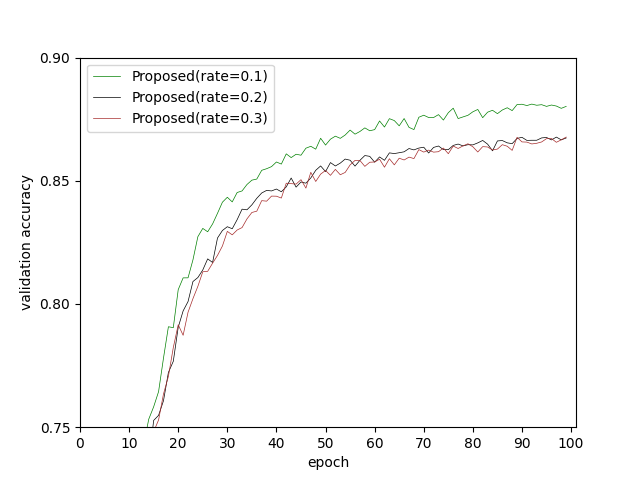
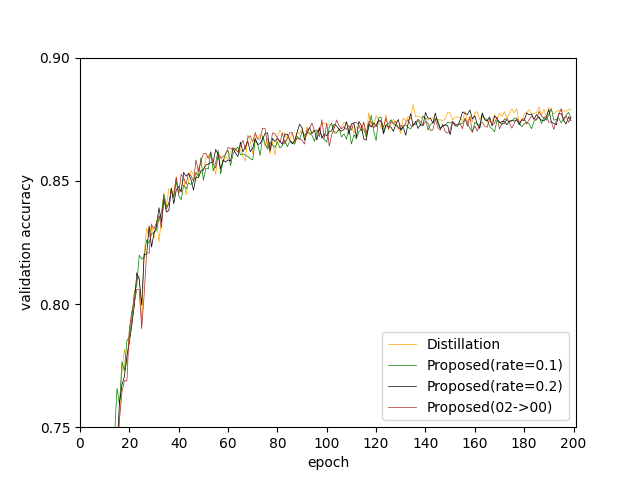
cam-distillation

diff --git a/result.py b/result.py
@@ -9,7 +9,7 @@ def main():
     st_path = './history/resnet/st/'
     cam01_path = './history/resnet/cam/01_'
     cam02_path = './history/resnet/cam/02_'
-    cam05_path = './history/resnet/cam/05_'
+    cam000_path = './history/resnet/cam/000_'
     
     # loading history
     student_acc = load_hist(student_path, 1)
@@ -17,7 +17,7 @@ def main():
     st_acc = load_hist(st_path, 1)
     cam01_acc = load_hist(cam01_path, 1)
     cam02_acc = load_hist(cam02_path, 1)
-    cam05_acc = load_hist(cam05_path, 1)
+    cam000_acc = load_hist(cam000_path, 1)
     
     # print test accuracy
     student_avg = load_avg_test(student_path, 1)
@@ -30,15 +30,15 @@ def main():
     cam01_best = load_best_test(cam01_path, 1) 
     cam02_avg = load_avg_test(cam02_path, 1)
     cam02_best = load_best_test(cam02_path, 1)
-    cam05_avg = load_avg_test(cam05_path, 1)
-    cam05_best = load_best_test(cam05_path, 1)
+    cam000_avg = load_avg_test(cam000_path, 1)
+    cam000_best = load_best_test(cam000_path, 1)
       
-    print('| Student             | avg: ' + str(student_avg) + ' | best: ' + str(student_best) + ' |')
-    print('| Teacher             | avg: ' + str(teacher_avg) + ' | best: ' + str(teacher_best) + ' |')
-    print('| Distillation        | avg: ' + str(st_avg)      + ' | best: ' + str(st_best) + ' |')
-    print('| Proposed(rate=0.1)  | avg: ' + str(cam01_avg)   + ' | best: ' + str(cam01_best) + ' |')
-    print('| Proposed(rate=0.2)  | avg: ' + str(cam02_avg)   + ' | best: ' + str(cam02_best) + ' |')
-    print('| Proposed(rate=0.5)  | avg: ' + str(cam05_avg)   + ' | best: ' + str(cam05_best) + ' |')
+    print('| Student                  | avg: ' + str(student_avg)  + ' | best: ' + str(student_best) + ' |')
+    print('| Teacher                  | avg: ' + str(teacher_avg)  + ' | best: ' + str(teacher_best) + ' |')
+    print('| Distillation             | avg: ' + str(st_avg)       + ' | best: ' + str(st_best)      + ' |')
+    print('| Proposed(rate=0.1)       | avg: ' + str(cam01_avg)    + ' | best: ' + str(cam01_best)   + ' |')
+    print('| Proposed(rate=0.2)       | avg: ' + str(cam02_avg)    + ' | best: ' + str(cam02_best)   + ' |')
+    print('| Proposed(rate=0.2->0.0)  | avg: ' + str(cam000_avg)   + ' | best: ' + str(cam000_best)  + ' |')
     
     # plot result
     x = np.arange(200)
@@ -47,17 +47,17 @@ def main():
     plt.xlabel('epoch')
     plt.ylabel('validation accuracy')
     
-    plt.plot(x, student_acc, label='Student',            linewidth=0.5, color='red')
-    plt.plot(x, teacher_acc, label='Teacher',            linewidth=0.5, color='blue')
-    plt.plot(x, st_acc,      label='Distillation',       linewidth=0.5, color='orange')
-    plt.plot(x, cam01_acc,   label='Proposed(rate=0.1)', linewidth=0.5, color='green')
-    plt.plot(x, cam02_acc,   label='Proposed(rate=0.2)', linewidth=0.5, color='black')
-    plt.plot(x, cam05_acc,   label='Proposed(rate=0.3)', linewidth=0.5, color='brown')
+    # plt.plot(x, student_acc, label='Student',            linewidth=0.5, color='red')
+    # plt.plot(x, teacher_acc, label='Teacher',            linewidth=0.5, color='blue')
+    plt.plot(x, st_acc,       label='Distillation',          linewidth=0.5, color='orange')
+    # plt.plot(x, cam01_acc,   label='Proposed(rate=0.1)', linewidth=0.5, color='green')
+    plt.plot(x, cam02_acc,    label='Proposed(rate=0.2)',    linewidth=0.5, color='black')
+    plt.plot(x, cam000_acc,   label='Proposed(rate=02->00)', linewidth=0.5, color='brown')
     
     plt.xticks(np.arange(0, 210, 20))
     plt.yticks(np.arange(0, 0.95, 0.05))
     plt.xlim(0, 201)
-    plt.ylim(0.70, 0.90)
+    plt.ylim(0.75, 0.90)
     plt.legend()
     plt.savefig('./result/resnet_result.png')
 

diff --git a/train_cam.py b/train_cam.py
@@ -16,7 +16,7 @@ import pickle
 
 def main():
     for i in range(1):
-        cam_rate = '05' # default: '02'
+        cam_rate = '000' # default: '02', CAM-curriculum: '00', '000'
         epochs = 200
         batch_size = 128
         np.random.seed(i)
@@ -42,21 +42,6 @@ def main():
         teacher.load_state_dict(torch.load('./logs/resnet/teacher/' + str(i) + '.pth')) # 変更箇所
         loss_fn = nn.CrossEntropyLoss() 
         student_hist = {'loss': [], 'accuracy': [], 'val_loss': [], 'val_accuracy': []}
-        
-        # teacher test
-        # teacher.eval()
-        # test_loss = 0.
-        # test_acc = 0.
-        # with torch.no_grad():
-        #     for (images,labels) in test_dataloader:
-        #         images, labels = images.to(device), labels.to(device)
-        #         preds, _ = teacher(images)
-        #         loss = loss_fn(preds, labels)
-        #         test_loss += loss.item()
-        #         test_acc += accuracy_score(labels.tolist(), preds.argmax(dim=-1).tolist())
-        # test_loss /= len(test_dataloader)
-        # test_acc /= len(test_dataloader)
-        # print(f'test_loss: {test_loss:.3f}, test_accuracy: {test_acc:.3f}')
         
         # train
         optim = optimizers.Adam(student.parameters())
@@ -88,6 +73,20 @@ def main():
                     loss = 0.5*loss_fn(preds, labels) + 0.1*T*T*soft_loss(preds, targets) + 0.4*cam_loss(student_cam, teacher_cam)
                 elif cam_rate == '05':
                     loss = 0.5*loss_fn(preds, labels) + 0.5*cam_loss(student_cam, teacher_cam)
+                # CAM Curriculum learning     
+                # elif cam_rate == '00':
+                #     if epoch <= 50:
+                #         loss = 0.5*loss_fn(preds, labels) + 0.3*T*T*soft_loss(preds, targets) + 0.2*cam_loss(student_cam, teacher_cam)
+                #     elif 50 < epoch and epoch <= 100:
+                #         loss = 0.5*loss_fn(preds, labels) + 0.4*T*T*soft_loss(preds, targets) + 0.1*cam_loss(student_cam, teacher_cam)
+                #     elif 100 < epoch:
+                #         loss = 0.5*loss_fn(preds, labels) + 0.5*T*T*soft_loss(preds, targets)
+                elif cam_rate == '000':
+                    if epoch <= 100:
+                        loss = 0.5*loss_fn(preds, labels) + 0.3*T*T*soft_loss(preds, targets) + 0.2*cam_loss(student_cam, teacher_cam)
+                    elif 100 < epoch:
+                        loss = loss = 0.5*loss_fn(preds, labels) + 0.5*T*T*soft_loss(preds, targets)
+                
                 
                 optim.zero_grad()
                 loss.backward()

diff --git a/test.py b/test.py
@@ -48,7 +48,7 @@ def main():
         st.load_state_dict(torch.load('./logs/resnet/st/' + str(i) + '.pth'))
         cam01.load_state_dict(torch.load('./logs/resnet/cam/01_' + str(i) + '.pth'))
         cam02.load_state_dict(torch.load('./logs/resnet/cam/02_' + str(i) + '.pth'))
-        cam03.load_state_dict(torch.load('./logs/resnet/cam/03_' + str(i) + '.pth'))
+        cam03.load_state_dict(torch.load('./logs/resnet/cam/000_' + str(i) + '.pth'))
         
         loss_fn = nn.CrossEntropyLoss()
         cam_loss = nn.MSELoss()

diff --git a/train.py b/train.py
@@ -15,7 +15,7 @@ from src.utils import *
 import pickle
 
 def main():
-    for i in range(1, 5):
+    for i in range(1):
         print(i)
         model_size = 'teacher'
         epochs = 200
